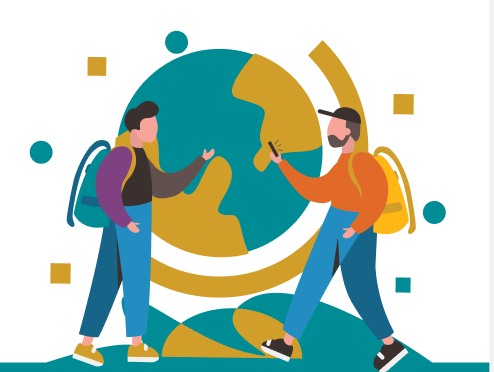
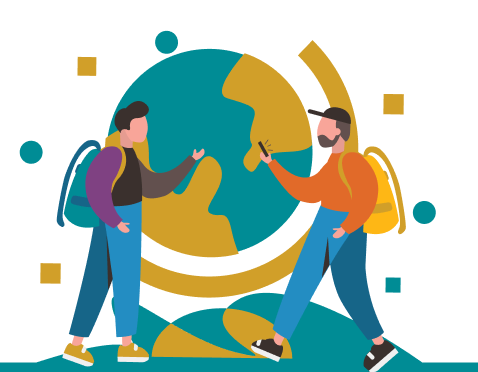
Image and text setting

diff --git a/src/app/page.tsx b/src/app/page.tsx
@@ -4,12 +4,12 @@ import {useEffect, useRef, useState} from "react";
 
 const items = [
     {
-        text: 'DiscipleMaker servers asa a tool to help you grow, learn, and connect with your Disciple.',
+        text: 'DiscipleMaker serves as a tool to help you grow, learn, and connect with your Disciples.',
         src: '/slide1.png'
     },
-    {text: 'Did you know that XX.XXX.XXX people from all over the word are in our network?', src: '/slide2.png'},
+    {text: 'Did you know that XX.XXX.XXX people from all over the world are in our network?', src: '/slide2.png'},
     {
-        text: '9.5 out of every 10 Disciples say that they have grown in their journey with Jesus though Discipling.',
+        text: '9.5 out of every 10 Disciples say that they have grown in their journey with Jesus through Discipling.',
         src: '/slide3.png'
     }
 ]
@@ -72,14 +72,15 @@ export default function Home() {
                     </div>
                 ))}
             </div>
-            <div className="bg-[#008c93] h-full flex flex-col flex-1 w-full">
+            <div className="bg-[#008c93] h-full flex flex-col flex-1 w-full items-center gap-2">
+                <div className='text-white font-medium text-xs'>SWIPE TO LEARN MORE</div>
                 <div className='flex gap-4 justify-center'>
                     {items.map((item, index) => (
                         <button key={index} onClick={() => handleSlide(index)}
                                 className={`rounded-full w-4 h-4 border border-2 border-white ${currentSlide === index ? 'bg-white' : 'bg-transparent'}`}/>
                     ))}
                 </div>
-                <button className='bg-[#d19f2a] p-4 w-fit rounded-lg m-auto'>GET STARTED!</button>
+                    <button className='bg-[#d19f2a] p-4 w-fit rounded-lg m-auto'>GET STARTED!</button>
             </div>
         </main>
     )

diff --git a/src/components/SliderItem.tsx b/src/components/SliderItem.tsx
@@ -4,14 +4,14 @@ interface Props {text:string, src:string, className?: string}
 export default function SliderItem ({text, src, className = ''}: Props) {
     return (
         <div className={className}>
-            <p className='text-[#008c93] text-center mb-12'>{text}</p>
+            <p className='text-[#008c93] text-center h-20 px-6'>{text}</p>
             <div className={`w-full`}>
                 <Image
                     className="w-full"
                     src={src}
                     alt="Slide"
-                    width={180}
-                    height={37}
+                    width={478}
+                    height={372}
                     priority
                 />
             </div>
